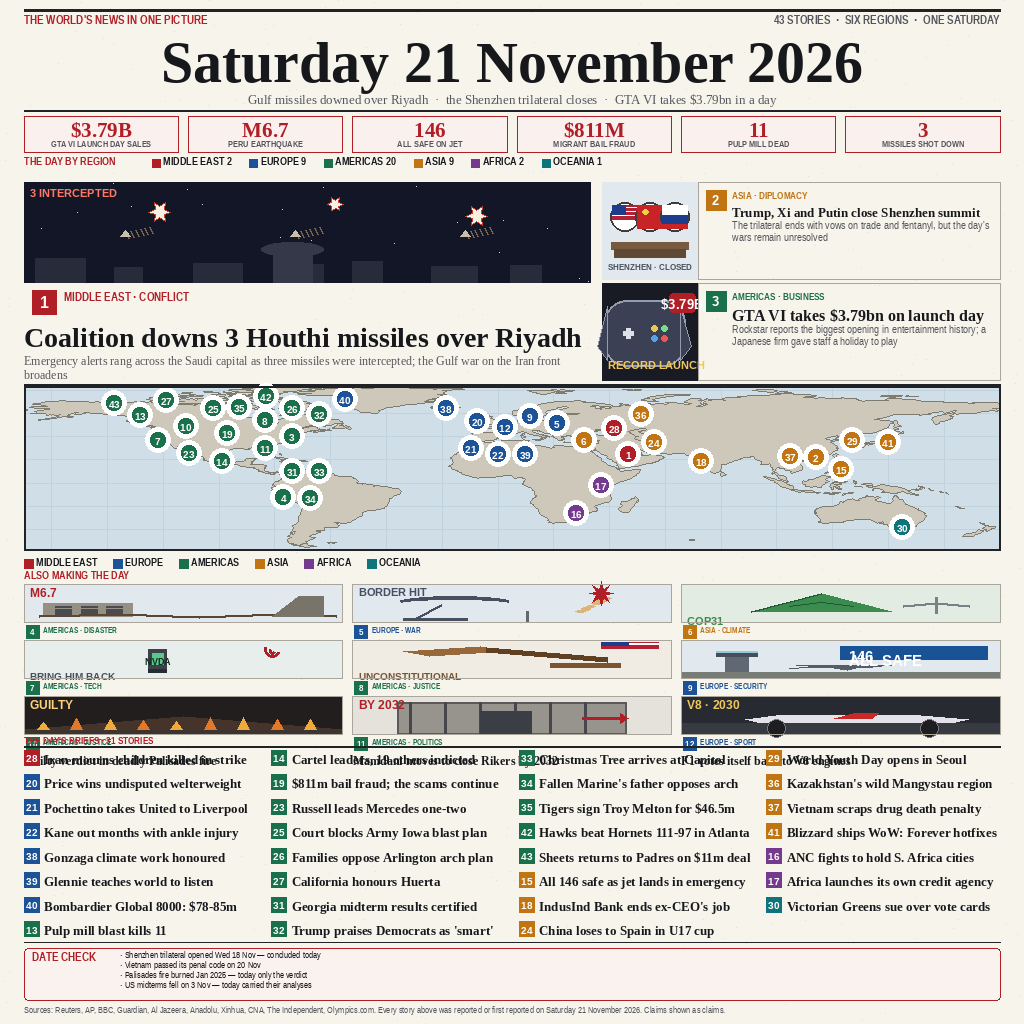
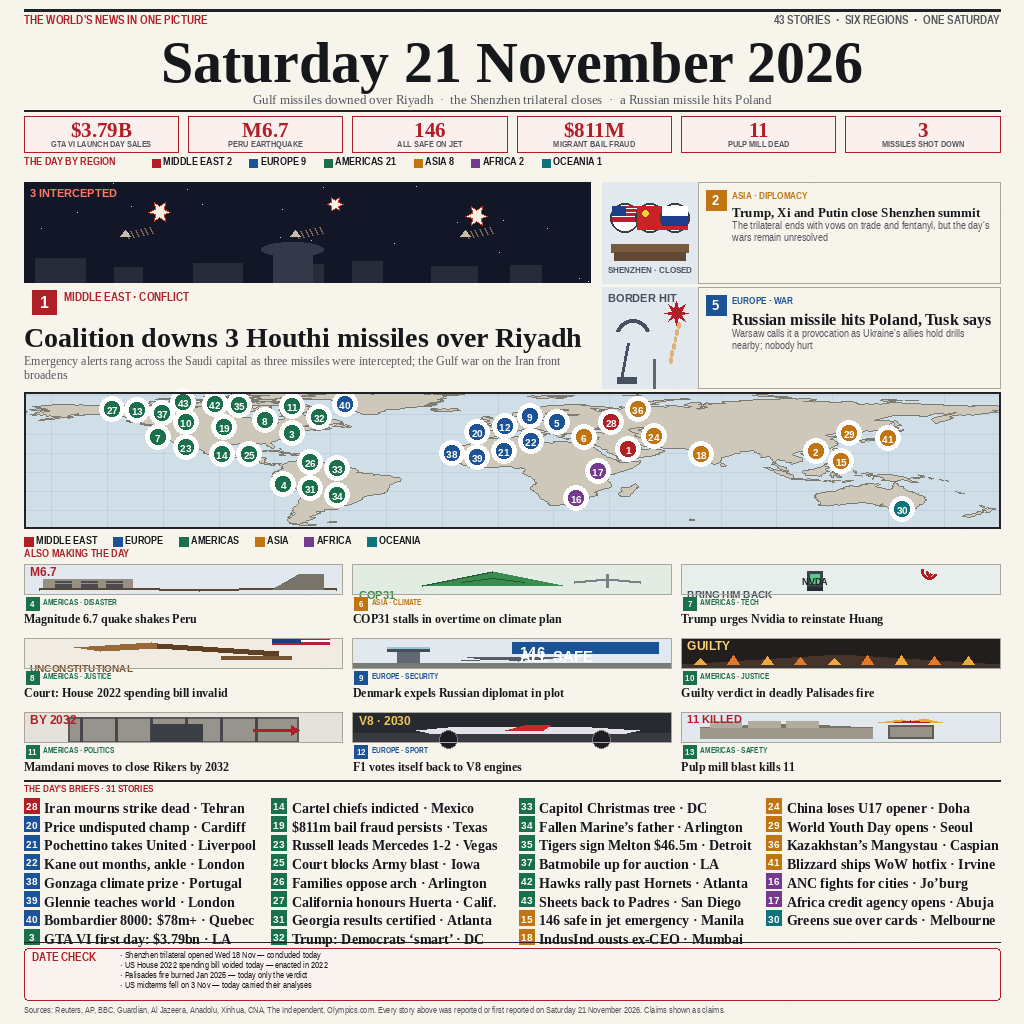
improve r4: consequential leads, global collision check, date consistency, readable briefs

Changed region(s): [[0.0, 0.1875, 1.0, 0.9688], [0.25, 0.0938, 0.75, 0.125]]

diff --git a/main.ts b/main.ts
@@ -1,15 +1,23 @@
-// make.fun news-image-20261121 — round-2 entry
+// make.fun news-image-20261121 — round-4 entry
 // Entry title: Saturday 21 November 2026: 40+ stories, six regions
 //
 // This entrypoint publishes the frozen front page for the make.fun
-// news-image-20261121 competition. The round-2 page ("THE WORLD'S NEWS IN ONE
+// news-image-20261121 competition. The page ("THE WORLD'S NEWS IN ONE
 // PICTURE", Saturday 21 November 2026) is a broadsheet with a masthead date,
 // a six-metric strip (each a big number plus a plain label), a schematic world
 // map whose numbered pins match the 43 briefs one-for-one, three illustrated
-// leads, nine illustrated cards, 31 single-line regional briefs, and a
+// leads chosen for consequence (the Riyadh intercept, the Shenzhen
+// trilateral, the Russian strike on Poland), nine illustrated cards, 31
+// single-line regional briefs whose headline fragments carry a place, and a
 // DATE CHECK box naming what did NOT happen on the day.
-// Round 2 sums up Saturday 21 November 2026 with 40+ stories spread across the
-// six named regions, tying every pinned brief to a dateline on that same day.
+// Round 4 sums up Saturday 21 November 2026 with 40+ stories spread across the
+// six named regions, keeping the DATE CHECK box and the grid in agreement.
+//
+// Behavior: copy the pre-rendered entry.png into the output directory.
+//   - MAKEFUN_OUTPUT_DIR overrides the destination directory (default /output)
+//   - refuses to publish an empty (0-byte) entry
+//   - refuses to publish an entry above the 1048576-byte size limit
+//   - prints a confirmation line on success
 //
 // Behavior: copy the pre-rendered entry.png into the output directory.
 //   - MAKEFUN_OUTPUT_DIR overrides the destination directory (default /output)
